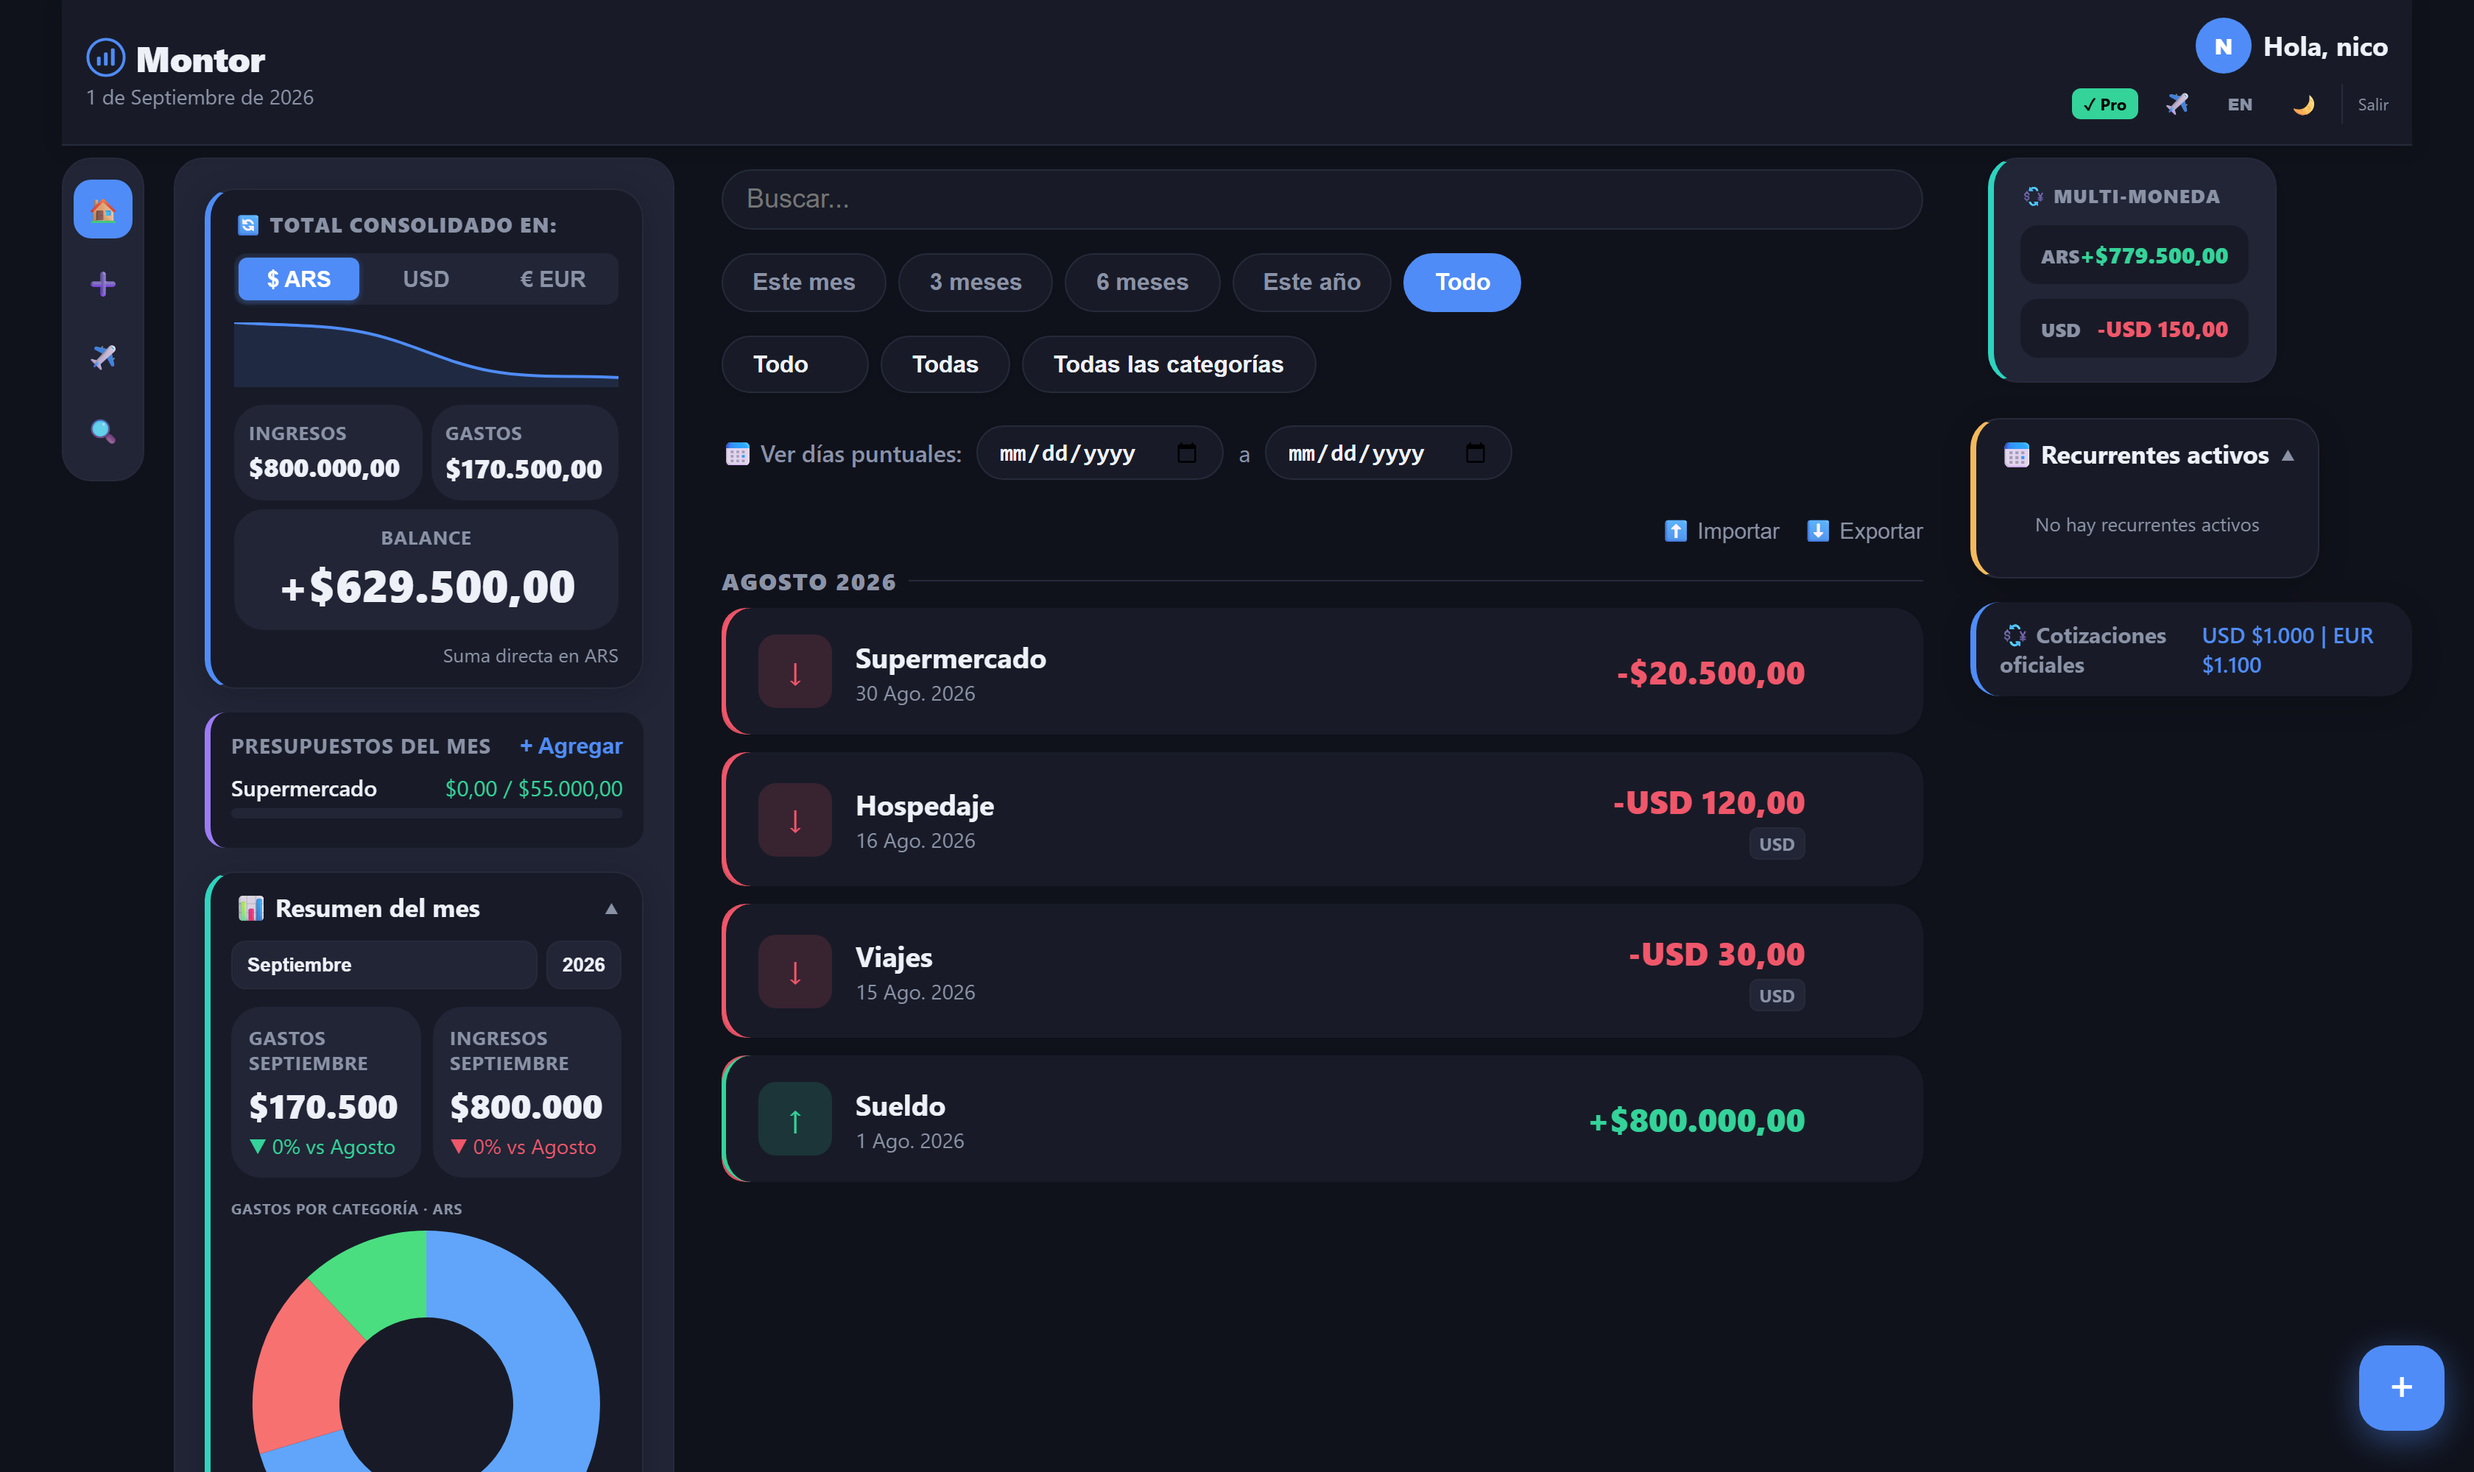
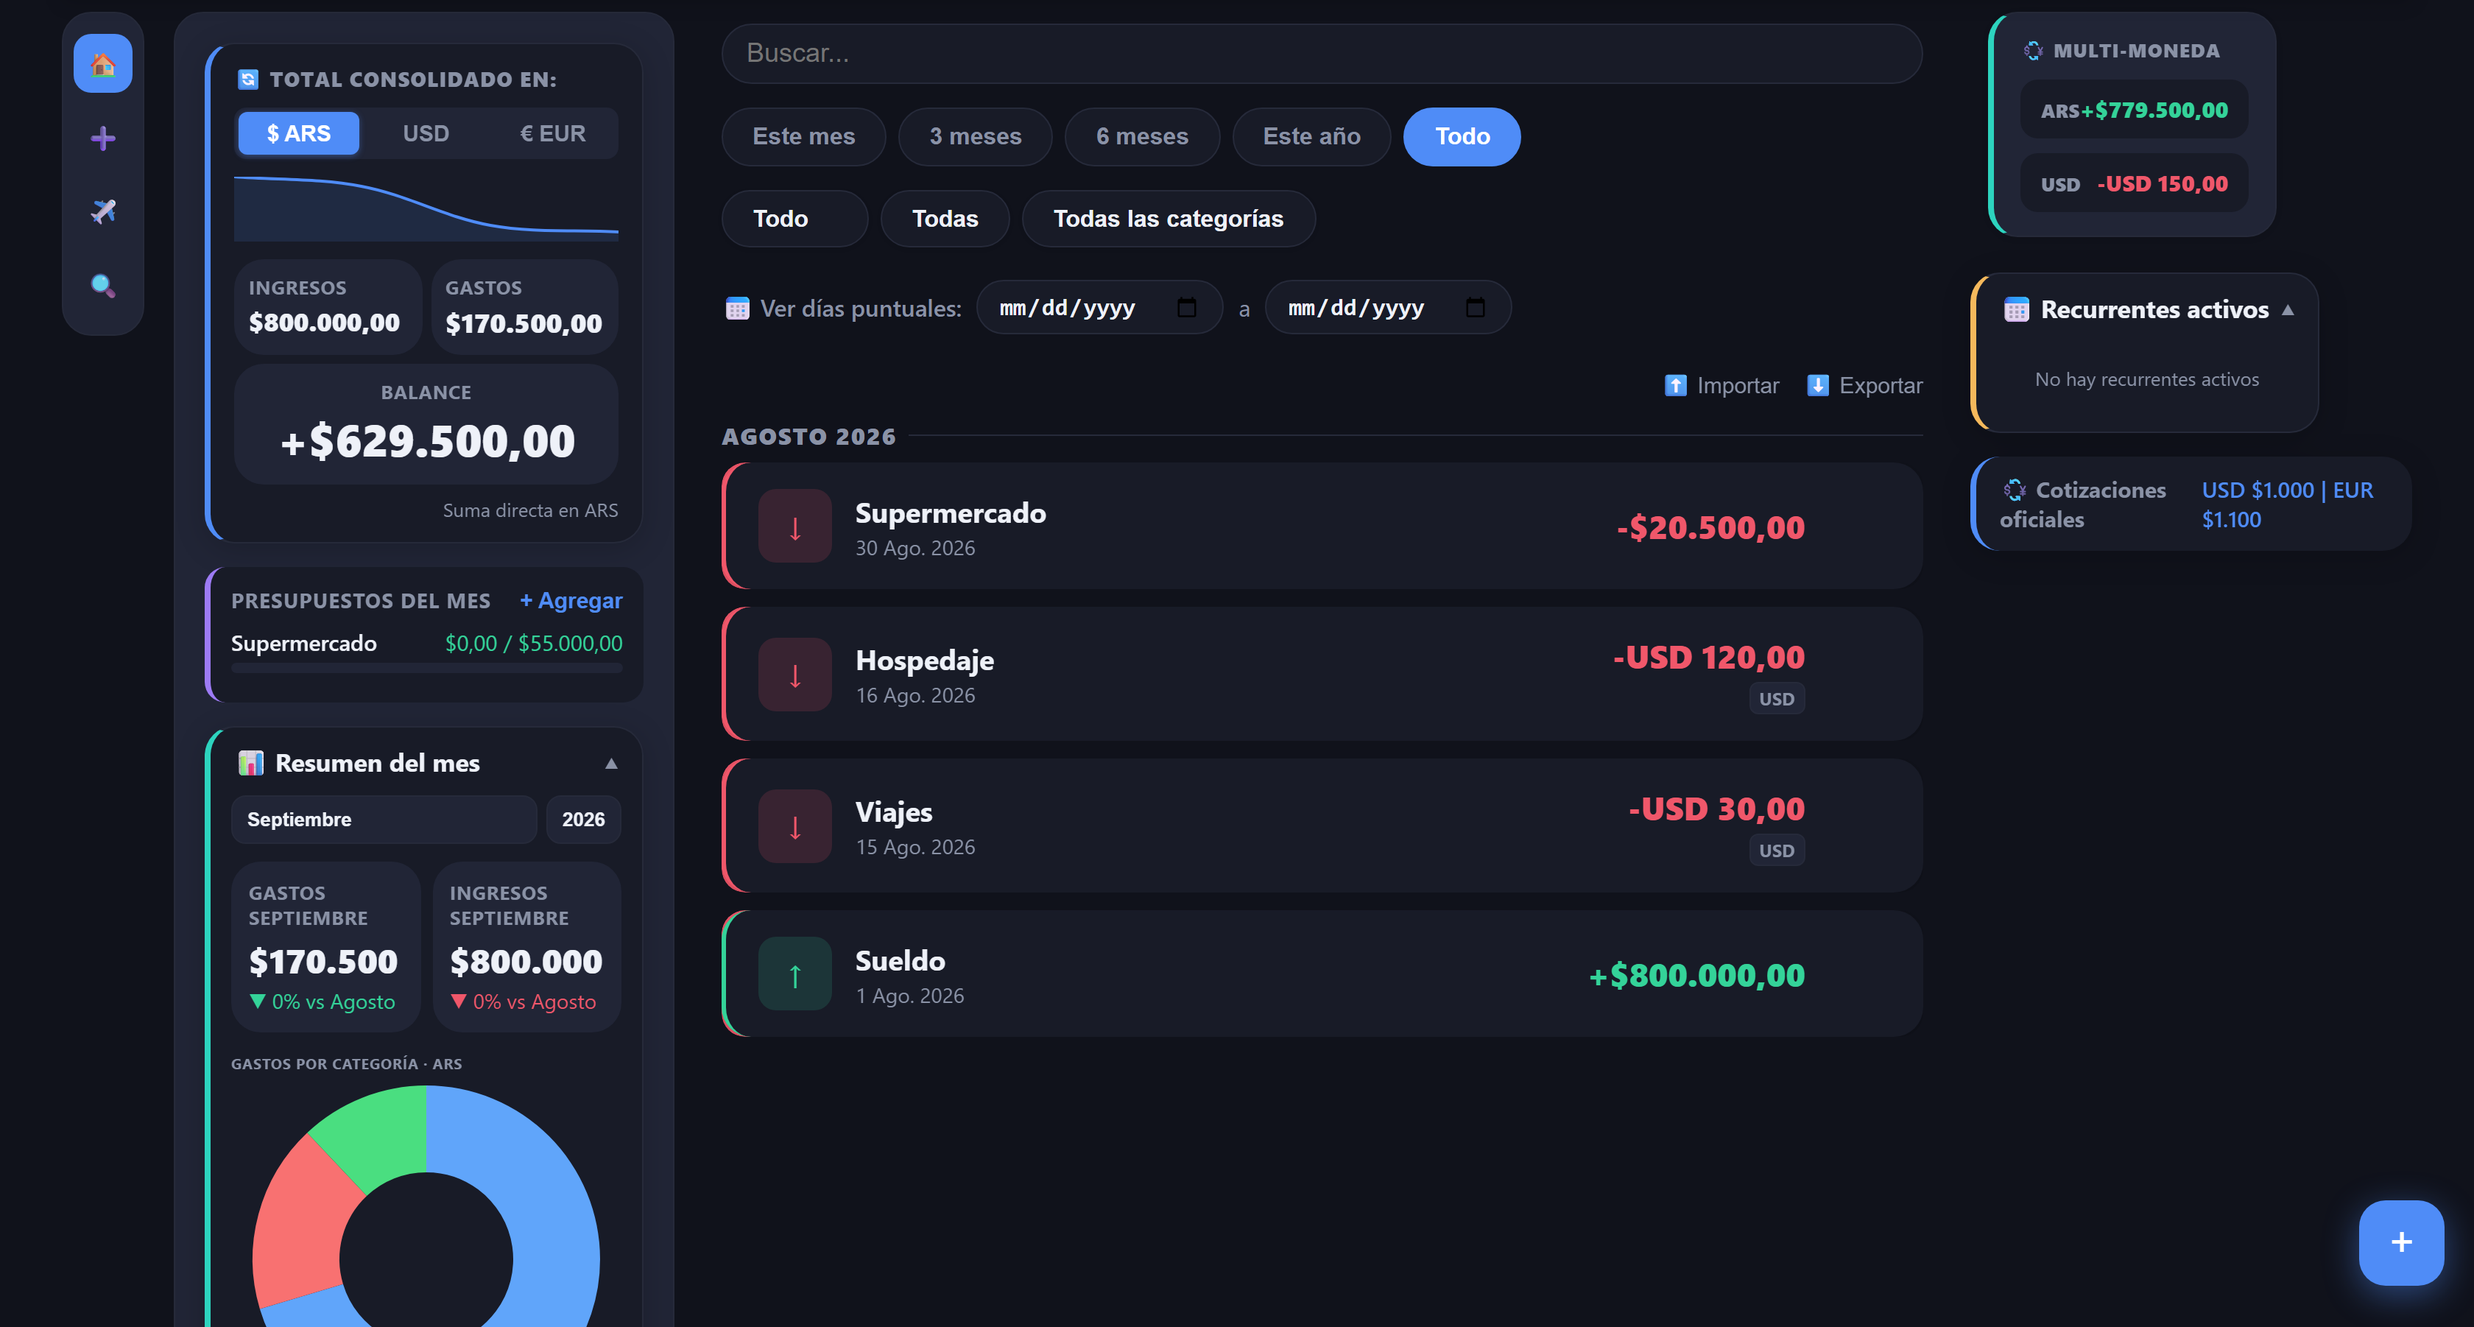
Landing: recorta el header propio de la app en las capturas de escritorio
El header de Montor (logo, Pro, EN, modo, Salir) quedaba repetido justo
debajo de la barra de direcciones falsa de la ventana Chrome/Windows,
duplicando "chrome" sobre "chrome". Las 3 capturas ahora arrancan
directo en el contenido (multi-moneda, formulario, transacciones).

diff --git a/templates/landing.html b/templates/landing.html
@@ -740,21 +740,21 @@
       <!-- SCREEN 0: formulario real -->
       <div class="demo-screen active" id="demo-screen-0" role="tabpanel" aria-labelledby="demo-tab-0">
         <div class="demo-shot">
-          <img src="/static/screenshots/nueva-transaccion-desktop.png" alt="Formulario real de nueva transacción en Montor, desde la computadora" loading="lazy" width="3360" height="2000">
+          <img src="/static/screenshots/nueva-transaccion-desktop.png" alt="Formulario real de nueva transacción en Montor, desde la computadora" loading="lazy" width="3360" height="1802">
         </div>
       </div>
 
       <!-- SCREEN 1: dashboard real -->
       <div class="demo-screen" id="demo-screen-1" role="tabpanel" aria-labelledby="demo-tab-1">
         <div class="demo-shot">
-          <img src="/static/screenshots/dashboard-desktop.png" alt="Dashboard real de Montor con saldo consolidado, presupuestos y movimientos, desde la computadora" loading="lazy" width="3360" height="2000">
+          <img src="/static/screenshots/dashboard-desktop.png" alt="Dashboard real de Montor con saldo consolidado, presupuestos y movimientos, desde la computadora" loading="lazy" width="3360" height="1802">
         </div>
       </div>
 
       <!-- SCREEN 2: resumen mensual + IA real -->
       <div class="demo-screen" id="demo-screen-2" role="tabpanel" aria-labelledby="demo-tab-2">
         <div class="demo-shot">
-          <img src="/static/screenshots/resumen-ia-desktop.png" alt="Resumen mensual real de Montor con gráfico por categoría y resumen escrito por IA, desde la computadora" loading="lazy" width="3360" height="2000">
+          <img src="/static/screenshots/resumen-ia-desktop.png" alt="Resumen mensual real de Montor con gráfico por categoría y resumen escrito por IA, desde la computadora" loading="lazy" width="3360" height="1802">
         </div>
       </div>
 
